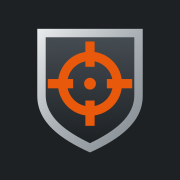
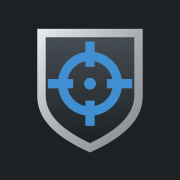
feat: switch signature color to blue (#64)

Changed region(s): [[0.25, 0.2222, 0.75, 0.7222], [0.4444, 0.4167, 0.5556, 0.5]]

diff --git a/frontend/src/styles/tokens.css b/frontend/src/styles/tokens.css
@@ -93,11 +93,11 @@
   --color-text-muted: #5d656b;
   --color-text-subtle: #80888e;
 
-  /* Blaze orange: use --accent for fills, --accent-text for text/icons on surfaces */
-  --color-accent: #e8590c;
-  --color-accent-hover: #d14d07;
-  --color-accent-text: #b8440a;
-  --color-accent-contrast: #1d2124;
+  /* Club blue (#165b92): use --accent for fills, --accent-text for text/icons on surfaces */
+  --color-accent: #165b92;
+  --color-accent-hover: #124c7a;
+  --color-accent-text: #165b92;
+  --color-accent-contrast: #ffffff;
 
   --color-success: #3f6a2e;
   --color-warning: #8a6b0f;
@@ -106,7 +106,7 @@
   --color-info: #4a6378;
   --color-on-danger: #ffffff;
 
-  --color-focus: #e8590c;
+  --color-focus: #1c6aa8;
   --color-overlay: rgba(20, 23, 26, 0.55);
   --shadow-popover: 0 6px 20px rgba(20, 23, 26, 0.18), 0 1px 3px rgba(20, 23, 26, 0.12);
 
@@ -114,8 +114,8 @@
   --metal-sheen: linear-gradient(180deg, #f4f5f6 0%, #e2e5e7 55%, #d8dcdf 100%);
   --metal-highlight: inset 0 1px 0 rgba(255, 255, 255, 0.8);
   --metal-edge: #b4babf;
-  --accent-sheen: linear-gradient(180deg, #f2702b 0%, #e8590c 60%, #dc5209 100%);
-  --accent-highlight: inset 0 1px 0 rgba(255, 255, 255, 0.28);
+  --accent-sheen: linear-gradient(180deg, #2269a3 0%, #165b92 60%, #135283 100%);
+  --accent-highlight: inset 0 1px 0 rgba(255, 255, 255, 0.22);
 }
 
 /* ---------- Dark: gunmetal ---------- */
@@ -132,10 +132,11 @@
   --color-text-muted: #9aa2a8;
   --color-text-subtle: #737b82;
 
-  --color-accent: #f06a1f;
-  --color-accent-hover: #ff7a33;
-  --color-accent-text: #ff8a47;
-  --color-accent-contrast: #16191b;
+  /* Club blue lifted for contrast on gunmetal */
+  --color-accent: #2a78bb;
+  --color-accent-hover: #3a88cc;
+  --color-accent-text: #6fb0e8;
+  --color-accent-contrast: #ffffff;
 
   --color-success: #8fbf6a;
   --color-warning: #e0b84a;
@@ -144,15 +145,15 @@
   --color-info: #8fa9bf;
   --color-on-danger: #16191b;
 
-  --color-focus: #ff7a33;
+  --color-focus: #5aa2e0;
   --color-overlay: rgba(0, 0, 0, 0.6);
   --shadow-popover: 0 8px 24px rgba(0, 0, 0, 0.5), 0 1px 3px rgba(0, 0, 0, 0.4);
 
   --metal-sheen: linear-gradient(180deg, #353a40 0%, #2a2f34 55%, #24282c 100%);
   --metal-highlight: inset 0 1px 0 rgba(255, 255, 255, 0.07);
   --metal-edge: #14171a;
-  --accent-sheen: linear-gradient(180deg, #ff7f3a 0%, #f06a1f 60%, #e25d13 100%);
-  --accent-highlight: inset 0 1px 0 rgba(255, 255, 255, 0.25);
+  --accent-sheen: linear-gradient(180deg, #3486c9 0%, #2a78bb 60%, #236ba9 100%);
+  --accent-highlight: inset 0 1px 0 rgba(255, 255, 255, 0.2);
 }
 
 /* ---------- Base ---------- */

diff --git a/backend/src/email.ts b/backend/src/email.ts
@@ -114,9 +114,9 @@ const theme = {
   muted: '#5d656b',
   gunmetal: '#262a2e',
   onGunmetal: '#e6e8ea',
-  accent: '#e8590c',
-  accentText: '#b8440a',
-  accentContrast: '#1d2124',
+  accent: '#165b92',
+  accentText: '#165b92',
+  accentContrast: '#ffffff',
   success: '#3f6a2e',
   danger: '#a3141c',
   fontBody: "'Barlow', 'Helvetica Neue', Arial, sans-serif",

diff --git a/frontend/src/pages/SessionDetailPage.tsx b/frontend/src/pages/SessionDetailPage.tsx
@@ -128,7 +128,7 @@ const PDF_COLORS = {
   muted: [93, 101, 107] as [number, number, number],
   rule: [169, 175, 180] as [number, number, number],
   headerFill: [223, 226, 228] as [number, number, number],
-  accent: [232, 89, 12] as [number, number, number],
+  accent: [22, 91, 146] as [number, number, number],
 };
 
 export default function SessionDetailPage() {

diff --git a/.github/instructions/frontend-design.instructions.md b/.github/instructions/frontend-design.instructions.md
@@ -5,7 +5,7 @@ applyTo: "frontend/src/**"
 
 # Frontend design system — "Range Technical"
 
-Visual identity for a shooting association: steel/gunmetal neutrals, one blaze-orange accent, precise and dense like an instrument panel. Reference implementations: [SessionsPage.tsx](../../frontend/src/pages/SessionsPage.tsx) (list page), [SessionDetailPage.tsx](../../frontend/src/pages/SessionDetailPage.tsx) (detail page).
+Visual identity for a shooting association: steel/gunmetal neutrals, one club-blue accent (official colour `#165b92`), precise and dense like an instrument panel. Reference implementations: [SessionsPage.tsx](../../frontend/src/pages/SessionsPage.tsx) (list page), [SessionDetailPage.tsx](../../frontend/src/pages/SessionDetailPage.tsx) (detail page).
 
 ## Hard rules
 
@@ -49,7 +49,7 @@ Missing something? Add a new primitive in `ui/` (Radix primitive from `radix-ui`
 
 ## Visual language
 
-- **Colour**: neutrals carry the UI. Orange `--color-accent` is reserved for the primary action, the active/selected marker (3px bar) and focus rings — never for large backgrounds or decoration. Use `--color-accent-text` when orange is text/icon on a surface.
+- **Colour**: neutrals carry the UI. Blue `--color-accent` is reserved for the primary action, the active/selected marker (3px bar) and focus rings — never for large backgrounds or decoration. Use `--color-accent-text` when blue is text/icon on a surface.
 - **Status colours**: success = olive, warning = ochre, danger = deep red, info = steel blue. Always pair with an icon or text.
 - **Metal**: `--metal-sheen` / `--accent-sheen` gradients only on the nav bar and buttons. No other gradients, no glassmorphism, no glow.
 - **Type**: Barlow body; Barlow Semi Condensed uppercase for headings, labels, table headers, nav and tabs; IBM Plex Mono for dates, times, counts and ratios.
